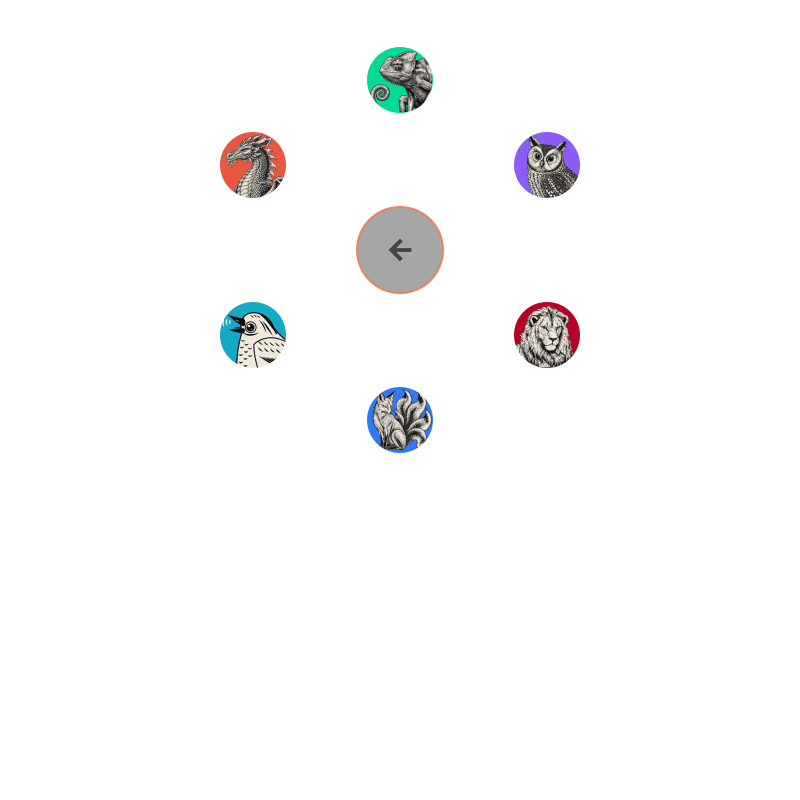
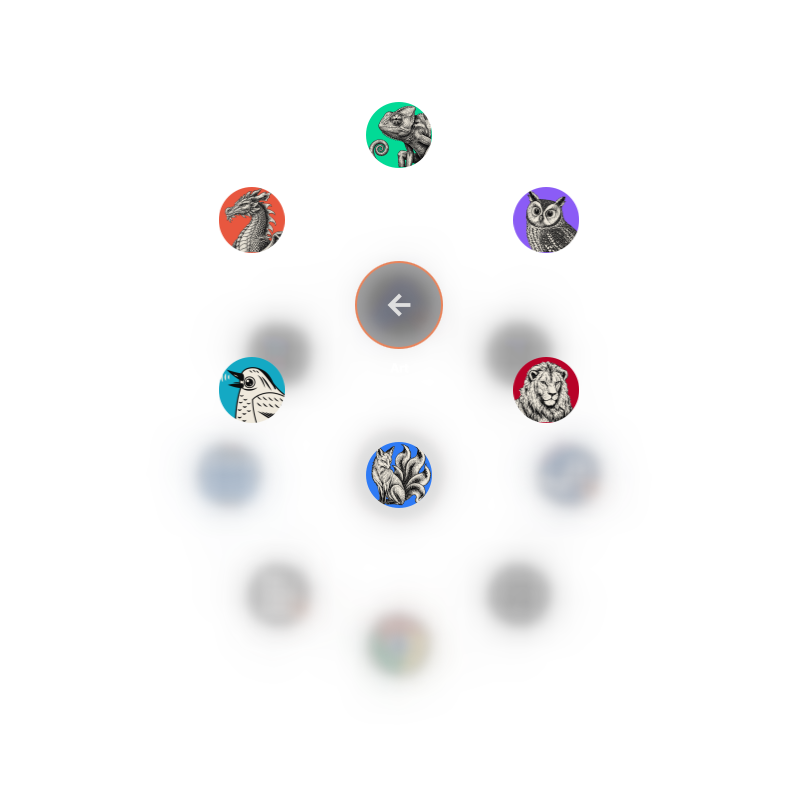
feat: прошлая ступень остаётся на экране под блюром
Вложенная орбита больше не сворачивает прошлое кольцо: снимок уровня
замирает на своём месте и уходит под блюр (MultiEffect), а дочерняя
орбита раскрывается вокруг своей клетки. Подъём наверх прячет призрак
и возвращает кольцо на сохранённый центр.

Скриншот ORBIT_SHOT_GPU оставлен для кадров с эффектами: программный
рендерер MultiEffect не рисует.

diff --git a/src/OverlayRoot.qml b/src/OverlayRoot.qml
@@ -1,9 +1,11 @@
 import QtQuick
 import QtQuick.Controls
+import QtQuick.Effects
 
 // The radial menu: cells evenly around the pointer (first on top); folders
-// fly the next ring out around their own cell, and climbing back up returns
-// to the stored spot.
+// fly the next ring out around their own cell while the previous level stays
+// on screen behind, frozen and blurred, and climbing back up returns to the
+// stored spot.
 Item {
     id: root
 
@@ -28,6 +30,16 @@ Item {
     readonly property int cellIconSize: cellSize
     property int launchingIndex: -1
     property int hoveredIndex: -1
+    // The previous level, left on screen behind the active ring: a frozen
+    // copy of the ring as it was the moment the folder was clicked, blurred.
+    property var ghostItems: []
+    property bool ghostNested: false
+    property real ghostX: 0
+    property real ghostY: 0
+    property bool ghostShown: false
+    readonly property int ghostCellSize: ghostItems.length > 0
+        ? Math.max(44, Math.min(66, Math.floor(2 * Math.PI * ringRadius / ghostItems.length) - 8))
+        : 66
     readonly property real hoveredAngle: hoveredIndex >= 0
         ? -Math.PI / 2 + hoveredIndex * 2 * Math.PI / Math.max(count, 1) : 0
     // The action that runs after the ring has folded away (enter/back/launch).
@@ -62,9 +74,16 @@ Item {
     // A nested orbit opens around the folder cell that was clicked, clamped
     // so the whole child ring stays on screen — a ring hanging off the edge
     // would turn its far side into "outside" clicks that close the overlay.
+    // The ring being left stays exactly where it is, as a blurred copy under
+    // the active ring; the click that opened the folder replaces it.
     function enterFolder(index) {
         const depth = backend.breadcrumb.length - 1
         levelCenters[depth] = { x: centerX, y: centerY }
+        ghostItems = backend.items
+        ghostNested = depth > 0
+        ghostX = centerX
+        ghostY = centerY
+        ghostShown = true
         const angle = -Math.PI / 2 + index * 2 * Math.PI / Math.max(count, 1)
         const margin = ringRadius + 80
         centerX = Math.min(Math.max(centerX + ringRadius * Math.cos(angle), margin), win.width - margin)
@@ -74,6 +93,7 @@ Item {
 
     function leaveFolder() {
         const depth = backend.breadcrumb.length - 1
+        ghostShown = false // the returning ring pops in under the fading ghost
         if (depth > 0 && levelCenters[depth - 1]) {
             centerX = levelCenters[depth - 1].x
             centerY = levelCenters[depth - 1].y
@@ -92,6 +112,123 @@ Item {
         NumberAnimation { target: ringContent; property: "opacity"; to: 0; duration: 90 }
         ScriptAction { script: { root.pendingCall(); root.pendingCall = null } }
         onFinished: { ringContent.scale = 1; ringContent.opacity = 1 }
+    }
+
+    // The level just left, parked exactly where it was: a frozen copy of the
+    // ring (cells and center), blurred and dimmed under the active ring. It
+    // is drawn from a captured copy of the items, so it never follows the
+    // live model, and it fades away as the active ring returns to it.
+    Item {
+        id: ghost
+        x: root.ghostX - root.ringRadius - 110
+        y: root.ghostY - root.ringRadius - 110
+        width: (root.ringRadius + 110) * 2
+        height: (root.ringRadius + 110) * 2
+        visible: opacity > 0.01
+        opacity: root.ghostShown ? 1 : 0
+        Behavior on opacity { NumberAnimation { duration: 200 } }
+
+        // Blurred and slightly dimmed: clearly a layer behind, never a
+        // second active menu. The blur comes from a layer, because a
+        // MultiEffect that samples a hidden item gets an empty texture.
+        Item {
+            id: ghostRing
+            anchors.fill: parent
+            opacity: 0.45
+            layer.enabled: true
+            layer.effect: MultiEffect {
+                blurEnabled: true
+                blurMax: 48
+                blur: 1.0
+                saturation: -0.35
+                brightness: -0.3
+            }
+
+            // Ring origin: the ghost cells are laid out around this point.
+            Item {
+                x: ghostRing.width / 2
+                y: ghostRing.height / 2
+                width: 1
+                height: 1
+
+                Rectangle {
+                    width: 88; height: 88
+                    x: -44; y: -44
+                    radius: 44
+                    color: Qt.rgba(0, 0, 0, 0.35)
+                    border.width: 2
+                    border.color: theme.accent
+                    Image {
+                        anchors.centerIn: parent
+                        source: root.ghostNested ? "image://icons/go-previous" : "qrc:/orbit.svg"
+                        sourceSize: Qt.size(42, 42)
+                        width: 42; height: 42
+                        fillMode: Image.PreserveAspectFit
+                    }
+                }
+
+                Repeater {
+                    model: root.ghostItems
+
+                    delegate: Item {
+                        required property var modelData
+                        required property int index
+
+                        readonly property real angle: -Math.PI / 2 + index * 2 * Math.PI / Math.max(root.ghostItems.length, 1)
+
+                        x: root.ringRadius * Math.cos(angle) - width / 2
+                        y: root.ringRadius * Math.sin(angle) - height / 2
+                        width: root.ghostCellSize + 8
+                        height: root.ghostCellSize + 8
+
+                        Rectangle {
+                            anchors.centerIn: parent
+                            width: root.ghostCellSize
+                            height: root.ghostCellSize
+                            radius: width / 2
+                            color: Qt.rgba(0.05, 0.05, 0.07, 0.72)
+                            border.width: 1
+                            border.color: Qt.rgba(1, 1, 1, 0.18)
+                        }
+                        Image {
+                            anchors.centerIn: parent
+                            width: root.ghostCellSize
+                            height: root.ghostCellSize
+                            sourceSize: Qt.size(root.ghostCellSize, root.ghostCellSize)
+                            source: "image://icons/circle:" + encodeURIComponent(modelData.icon || "application-x-executable")
+                            fillMode: Image.PreserveAspectFit
+                        }
+                        Rectangle {
+                            visible: modelData.folder && modelData.count > 0
+                            width: 20; height: 20; radius: 10
+                            x: root.ghostCellSize - 18
+                            y: root.ghostCellSize - 26
+                            color: theme.accent
+                            Label {
+                                anchors.centerIn: parent
+                                text: modelData.count > 9 ? "9+" : modelData.count
+                                font.pixelSize: 10
+                                font.bold: true
+                                color: theme.accentForeground
+                            }
+                        }
+                        Label {
+                            visible: backend.showNames
+                            anchors.horizontalCenter: parent.horizontalCenter
+                            y: root.ghostCellSize + 10
+                            width: root.ghostCellSize + 16
+                            horizontalAlignment: Text.AlignHCenter
+                            elide: Text.ElideRight
+                            text: modelData.name
+                            font.pixelSize: 11
+                            color: "#ffffff"
+                            style: Text.Outline
+                            styleColor: Qt.rgba(0, 0, 0, 0.55)
+                        }
+                    }
+                }
+            }
+        }
     }
 
     Item {
@@ -214,7 +351,9 @@ Item {
 
                 onClicked: {
                     if (modelData.folder) {
-                        root.foldAwayThen(() => root.enterFolder(index))
+                        // No fold: the ring being left stays on screen as the
+                        // blurred ghost, the child orbit pops around the cell.
+                        root.enterFolder(index)
                     } else {
                         root.launchingIndex = index
                         launchTimer.start()

diff --git a/src/main.cpp b/src/main.cpp
@@ -60,8 +60,10 @@ int main(int argc, char *argv[])
     QQuickStyle::setStyle("Material");
 
     // Screenshot mode (ORBIT_SHOT) renders offscreen with the software scene
-    // graph, so grabWindow() works without a GPU.
-    if (!qEnvironmentVariableIsEmpty("ORBIT_SHOT"))
+    // graph, so grabWindow() works without a GPU. ORBIT_SHOT_GPU=1 keeps the
+    // hardware renderer, which is the only one that can draw the MultiEffect
+    // blur of the ghost ring (the software one drops it).
+    if (!qEnvironmentVariableIsEmpty("ORBIT_SHOT") && qEnvironmentVariableIsEmpty("ORBIT_SHOT_GPU"))
         QQuickWindow::setGraphicsApi(QSGRendererInterface::GraphicsApi::Software);
 
     Translator translator;

diff --git a/README.md b/README.md
@@ -78,7 +78,7 @@ Add a new language by creating `src/i18n/<code>.json` with `"source text": "tran
 
 ![Orbit menu](docs/orbit-menu.png) — Radial menu around the pointer / Радиальное меню вокруг курсора / Радіальне меню навколо курсора
 
-![Orbit folder](docs/orbit-folder.png) — A folder opens its orbit right around its own cell / Папка открывает свою орбиту прямо вокруг своей клетки / Тека відкриває свою орбіту просто навколо своєї комірки
+![Orbit folder](docs/orbit-folder.png) — A folder opens its orbit around its own cell while the previous level stays on screen, blurred / Папка открывает свою орбиту вокруг своей клетки, а прошлая ступень остаётся на экране под блюром / Тека відкриває свою орбіту навколо своєї комірки, а попередній рівень лишається на екрані під блюром
 
 ![Orbit settings](docs/orbit-settings.png) — Settings panel: hotkey, cell names, menu editor / Панель настроек: комбинация, названия ячеек, редактор меню / Панель налаштувань: комбінація, назви комірок, редактор меню
 
